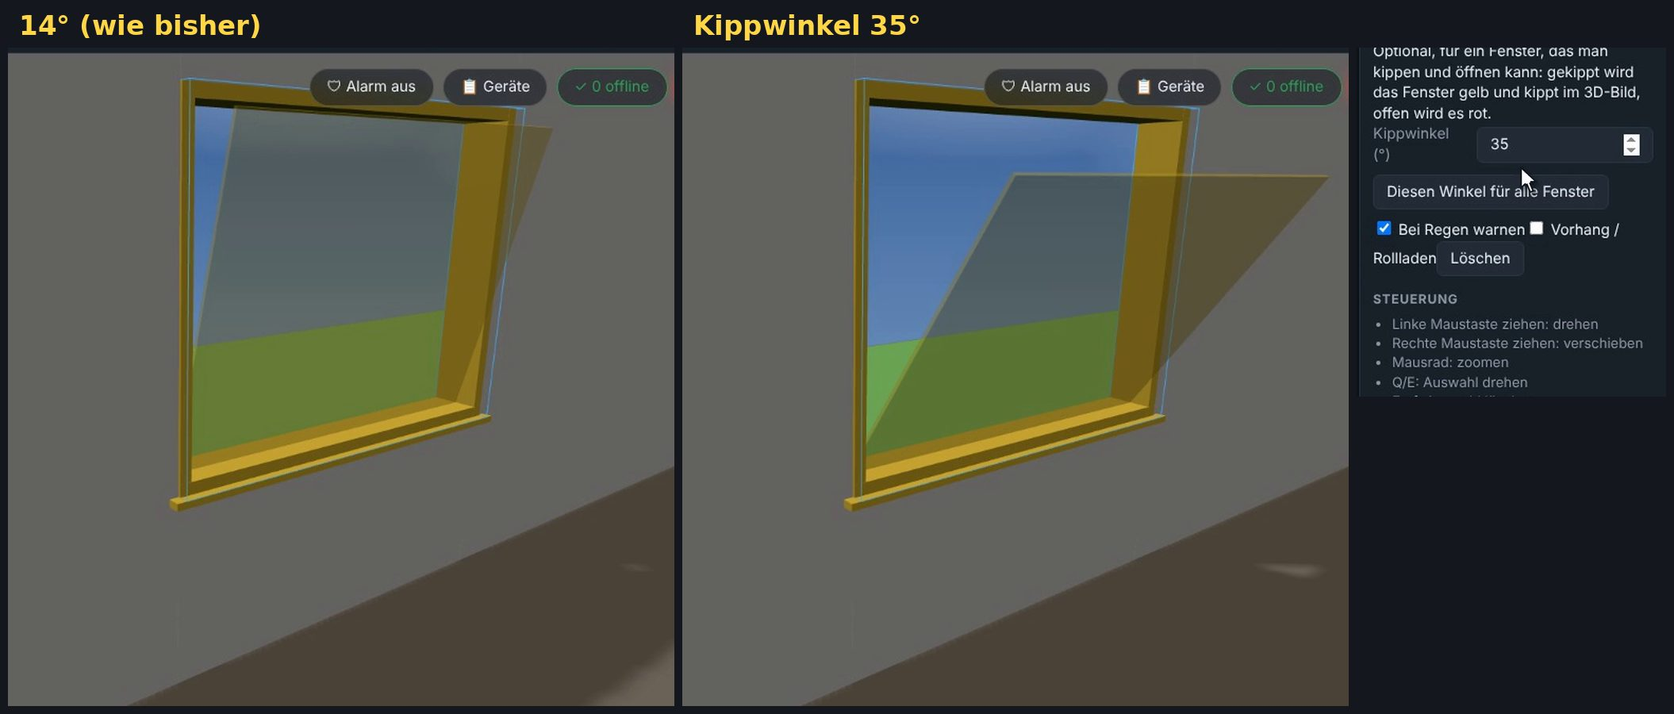
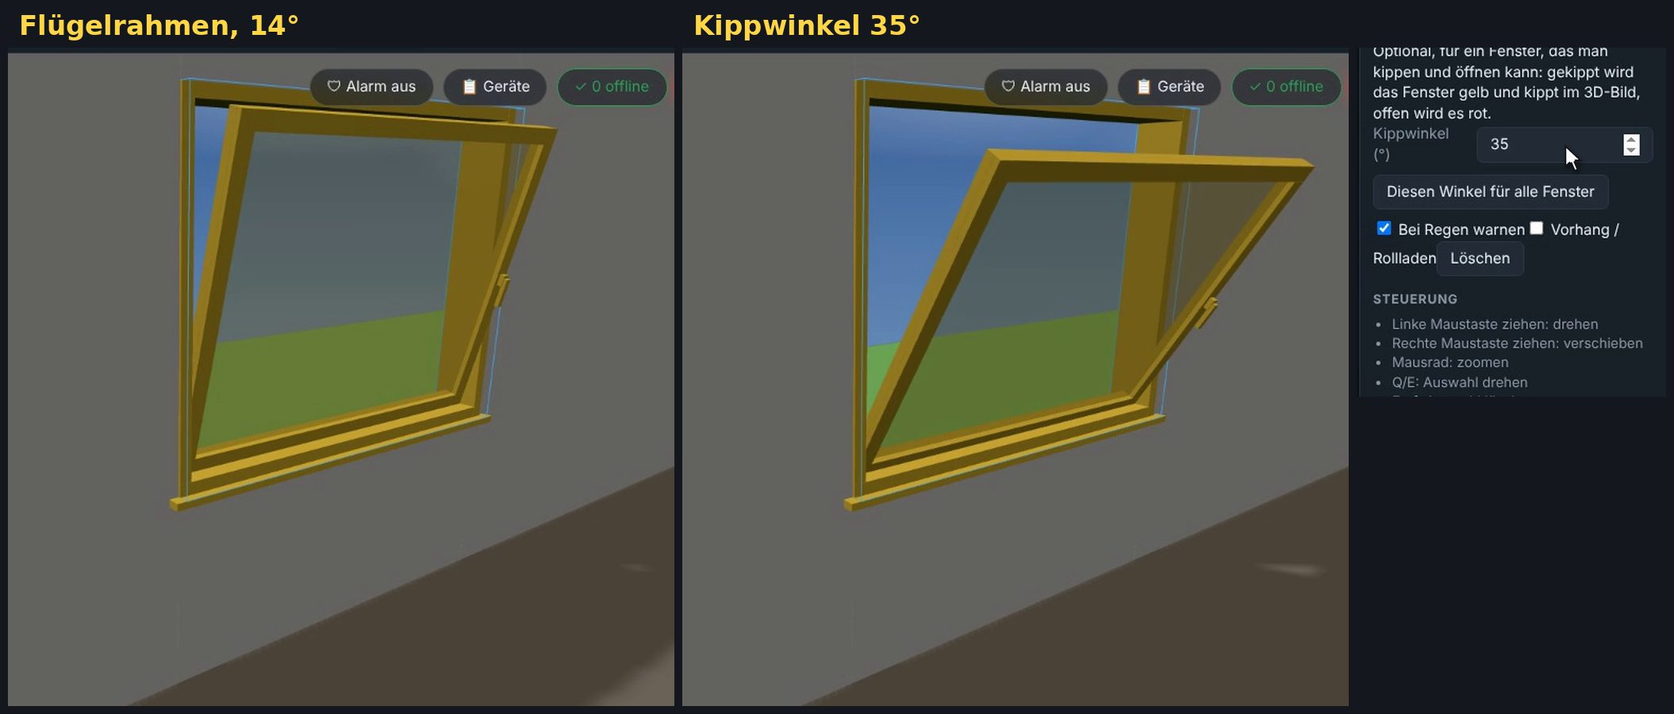
4.64.0: every pane that opens has a sash with a handle
After the example pictures (docs/ideen-4.64/) the owner chose "Ja, mit
Griff": a pane was only its glass, so a tilted window was hard to see. Now a
sash runs round the glass of every pane that opens, in the frame's colour
(green shut, yellow tilted, red open), with a handle on the room side across
from the hinge. It hangs in the pane's pivot, so it tilts and swings with it.
Fixed glazing has none. One mesh per pane without a shadow of its own.

- sash.js (new, pure): the bars and the handle; unit test, CI step
- walls.js builds it, __fp.sashes(id) for the browser test (69_window_tilt)
- video window-tilt mentions it, timeline picture redone, changelog,
  test protocol, handover, module plan

Claude-Session: https://claude.ai/code/session_018pwcmxVVTnezr3eQr4cvDx

diff --git a/floorplan3d/rootfs/app/static/walls.js b/floorplan3d/rootfs/app/static/walls.js
@@ -4,6 +4,7 @@ import { hasShutter, curtainStyle, curtainSide, shutterSlats, curtainDepth, curt
 import { mergeParts } from './meshmerge.js';
 import { windowPanes, paneHinge } from './windowpanes.js';
 import { tiltAngle } from './windowtilt.js';
+import { sashParts } from './sash.js';
 
 /* Wall geometry with real openings (doors/windows).
  * Wall data: { id, a:[x,z], b:[x,z], thickness, height, openings:[{id,type,pos,width,height,sill}] }
@@ -129,6 +130,7 @@ function buildOpening(o, t, mats0, low, shutterMat, side = 1, curtainMat = null)
   const fd = t + 0.02, ft = 0.05;                        // frame depth / thickness
   const x0 = cx - w / 2, x1 = cx + w / 2;
   let pivot = null;
+  const sashes = [];                                     // the sashes of the panes (sash.js): no shadow of their own
   const st = o.style || (o.type === 'door' ? 'single' : 'double');   // windows saved before styles existed had one centre bar
   if (o.type === 'door' && st === 'gap') return g;       // bare opening in the wall: no frame, no leaf (still tappable via the group)
   g.add(boxMesh(x0, x0 + ft, s, s + h, fd, mats.frame));
@@ -202,26 +204,41 @@ function buildOpening(o, t, mats0, low, shutterMat, side = 1, curtainMat = null)
   } else {
     if (o.sill > 0) g.add(boxMesh(x0, x1, s, s + ft, fd, mats.frame));
     const shade = curtainStyle(o), panes = windowPanes(o), inner = h - 2 * ft;
+    /** the sash of a pane that opens (sash.js): its bars and handle as one mesh in the frame's material, so it is tinted with the frame */
+    const sash = (x0, x1, y0, y1, hingeAt) => {
+      const parts = sashParts({ x0, x1, y0, y1, hingeAt, room: -side });
+      if (!parts.length) return null;
+      const boxes = parts.map((q) => new THREE.BoxGeometry(q.w, q.h, q.d).translate(q.x, q.y, q.z));
+      const m = new THREE.Mesh(mergeGeometries(boxes), mats.frame);
+      m.userData.sash = true;
+      boxes.forEach((b) => b.dispose());
+      sashes.push(m);
+      return m;
+    };
     // window pane(s) swing inwards when open (fixed glazing does not open), each around the edge chosen for it in the properties
     // (paneHinge); multi-pane windows get one pivot per pane so every pane can follow its own sensor
     const mkPane = (u0, u1, i) => {
       const pv = new THREE.Group(), pw = u1 - u0, hinge = paneHinge(o, i);
       const flip = o.openOutward ? -1 : 1;                 // the pane opens inward by default, outward on request
-      let pane, dir = flip * -side, axis = 'x', max = 0.4;
+      let pane, dir = flip * -side, axis = 'x', max = 0.4, glass;
       if (hinge === 'left' || hinge === 'right') {
         const atU1 = hinge === 'left' ? side > 0 : side < 0;   // the hinge on the left seen from inside the room
         pv.position.set(atU1 ? u1 : u0, s + ft, 0);
         pane = atU1 ? boxMesh(-pw, 0, 0, inner, 0.015, mats.glass) : boxMesh(0, pw, 0, inner, 0.015, mats.glass);
         pane.position.y = inner / 2;
         dir = flip * (atU1 ? -side : side); axis = 'y'; max = 1.15;     // whatever the side: the pane swings inward unless 开向 says outward
+        glass = atU1 ? [-pw, 0, 0, inner, 'x1'] : [0, pw, 0, inner, 'x0'];
       } else {
         const top = hinge === 'top';
         pv.position.set(0, s + ft + (top ? inner : 0), 0);
         pane = top ? boxMesh(u0, u1, -inner, 0, 0.015, mats.glass) : boxMesh(u0, u1, 0, inner, 0.015, mats.glass);
         dir = flip * (top ? side : -side);
+        glass = top ? [u0, u1, -inner, 0, 'y1'] : [u0, u1, 0, inner, 'y0'];
       }
       pv.add(pane);
       if (st !== 'fixed' && hinge !== 'fixed') {
+        const sm = sash(...glass);                         // a pane that opens has a sash with a handle: it tilts and swings with the pane
+        if (sm) pv.add(sm);
         pv.userData.dir = dir; pv.userData.axis = axis; pv.userData.max = max;
         // tilted (#624, windowtilt.js): the pane leans into the room round its bottom edge, whatever its hinge (a tilt-and-turn window)
         const tg = new THREE.Group();
@@ -256,6 +273,7 @@ function buildOpening(o, t, mats0, low, shutterMat, side = 1, curtainMat = null)
   g.userData.pivot = pivot;
   g.userData.tint = Object.entries(mats).map(([k, m]) => ({ k, m, base: m.color.getHex() }));   // k: frame, door, metal, glass (openings.js partHex)
   g.traverse((m) => { if (m.isMesh) m.castShadow = true; });
+  sashes.forEach((m) => { m.castShadow = false; });     // the thin sash needs no shadow of its own (fewer draw calls)
   mergeParts(g);                                         // the fixed parts of the frame in one mesh: fewer draw calls (meshmerge.js, #394)
   g.position.x = o.pos - 0;                              // replaced by caller (needs wall length)
   return g;

diff --git a/floorplan3d/rootfs/app/static/sash.js b/floorplan3d/rootfs/app/static/sash.js
@@ -1,0 +1,34 @@
+/* The sash of a window pane that opens (4.64.0, the owner after the example pictures: "Ja, mit Griff"; biggilottecassi in #624: the tilted
+ * window should show more): four bars round its glass and a handle on the room side, across from the hinge. It hangs in the pane's pivot,
+ * so it tilts and swings with the pane, in the colour of the window's frame (green shut, yellow tilted, red open). Before, a pane was only
+ * its glass, and a tilted pane was hard to see. Fixed glazing and a fixed pane have no sash.
+ * Pure (no three.js, no DOM; unit test: tests/sash.test.mjs); walls.js makes the boxes into one mesh per pane. */
+
+export const SASH_BAR = 0.065;                   // the width of the profile (smaller on a narrow pane)
+export const SASH_DEPTH = 0.06;                  // its depth across the wall
+
+/** the boxes of the sash of a pane whose glass is x0..x1 × y0..y1 (in the pane's own frame, z = 0 the middle of the glass).
+ *  hingeAt: the edge the pane swings round, 'x0' | 'x1' | 'y0' | 'y1'; room: +1 or −1, the side of the room along z (the handle).
+ *  Returns [{ w, h, d, x, y, z }]: size and middle of every box; [] for a pane too small to have one */
+export function sashParts({ x0, x1, y0, y1, hingeAt = 'y0', room = 1 }) {
+  const W = x1 - x0, H = y1 - y0;
+  if (!(W > 0.12 && H > 0.12)) return [];
+  const b = Math.min(SASH_BAR, W * 0.15, H * 0.15), d = SASH_DEPTH, cx = (x0 + x1) / 2, cy = (y0 + y1) / 2;
+  const parts = [
+    { w: W, h: b, d, x: cx, y: y1 - b / 2, z: 0 },               // top
+    { w: W, h: b, d, x: cx, y: y0 + b / 2, z: 0 },               // bottom
+    { w: b, h: H - 2 * b, d, x: x0 + b / 2, y: cy, z: 0 },       // left
+    { w: b, h: H - 2 * b, d, x: x1 - b / 2, y: cy, z: 0 },       // right
+  ];
+  // the handle: on the bar across from the hinge, in its middle, on the room side; its lever lies along that bar
+  const side = room < 0 ? -1 : 1, zb = side * (d / 2 + 0.012), zl = side * (d / 2 + 0.03);
+  const across = { x0: 'x1', x1: 'x0', y0: 'y1', y1: 'y0' }[hingeAt] || 'y1';
+  if (across === 'x0' || across === 'x1') {
+    const x = across === 'x0' ? x0 + b / 2 : x1 - b / 2, lever = Math.min(0.13, H * 0.2);
+    parts.push({ w: 0.03, h: 0.05, d: 0.024, x, y: cy, z: zb }, { w: 0.024, h: lever, d: 0.02, x, y: cy - lever / 2 + 0.012, z: zl });
+  } else {
+    const y = across === 'y0' ? y0 + b / 2 : y1 - b / 2, lever = Math.min(0.13, W * 0.2);
+    parts.push({ w: 0.05, h: 0.03, d: 0.024, x: cx, y, z: zb }, { w: lever, h: 0.024, d: 0.02, x: cx + lever / 2 - 0.012, y, z: zl });
+  }
+  return parts;
+}

diff --git a/docs/ideen-4.64/mockup.js b/docs/ideen-4.64/mockup.js
@@ -1,0 +1,31 @@
+// Mockup only (not in the add-on): a sash frame round every pane that opens, in the window's frame colour, and a handle on the room side.
+// It hangs in the pane's pivot, so it tilts and swings with the pane.
+window.__sash = (handle = true) => {
+  const fp = window.__fp;
+  fp.scene.traverse((g) => {
+    if (g.userData?.kind !== 'opening' || !g.userData.panePivots) return;
+    const frameMat = (g.userData.tint || []).find((x) => x.k === 'frame')?.m;
+    const metalMat = (g.userData.tint || []).find((x) => x.k === 'metal')?.m || frameMat;
+    if (!frameMat) return;
+    const tilts = g.userData.tiltPivots || [];
+    g.userData.panePivots.forEach((pv, i) => {
+      if (!pv || pv.userData.sash || pv.userData.dir == null) return;
+      const glass = pv.children.find((c) => c.isMesh && c.geometry?.parameters?.width);
+      if (!glass) return;
+      const { width: W, height: H } = glass.geometry.parameters, c = glass.position;
+      const b = 0.065, d = 0.07;                           // the profile of the sash: 6.5 cm wide, 7 cm deep
+      const Box = glass.geometry.constructor, Mesh = glass.constructor;
+      const add = (w, h, dd, x, y, z, mat) => { const m = new Mesh(new Box(w, h, dd), mat); m.position.set(c.x + x, c.y + y, c.z + z); m.castShadow = true; pv.add(m); return m; };
+      add(W, b, d, 0, H / 2 - b / 2, 0, frameMat); add(W, b, d, 0, -H / 2 + b / 2, 0, frameMat);
+      add(b, H - 2 * b, d, -W / 2 + b / 2, 0, 0, frameMat); add(b, H - 2 * b, d, W / 2 - b / 2, 0, 0, frameMat);
+      if (handle) {
+        const room = Math.sign(tilts[i]?.userData?.dir || 1);           // the side the pane tilts to is the room
+        const side = pv.userData.axis === 'y' ? Math.sign(c.x || 1) : 0; // a side-hinged pane: the handle on the far side
+        const hx = side ? side * (W / 2 - b / 2) : 0, hy = side ? 0 : H / 2 - b / 2;
+        add(0.03, 0.05, 0.03, hx, hy, room * (d / 2 + 0.015), metalMat);
+        add(0.025, 0.13, 0.02, hx, hy - 0.06, room * (d / 2 + 0.035), metalMat);
+      }
+      pv.userData.sash = true;
+    });
+  });
+};

diff --git a/floorplan3d/rootfs/app/static/app.js b/floorplan3d/rootfs/app/static/app.js
@@ -1901,6 +1901,7 @@ if (params.get('debug')) {
     switchHouse,
     paneTargets: (id) => (registry.get(id)?.userData.panePivots || []).map((p) => p.userData?.target ?? 0),   // a fixed pane has no target: 0
     tiltTargets: (id) => (registry.get(id)?.userData.tiltPivots || []).map((p) => p?.userData?.target ?? 0),   // a tilted pane (#624), its angle
+    sashes: (id) => (registry.get(id)?.userData.panePivots || []).map((p) => p.children.some((c) => c.userData?.sash)),   // a pane with a sash (sash.js)
     openLook: (id) => registry.get(id)?.userData.look ?? null,                                                 // 'open', 'tilted', 'closed' …
     shutterScale: (id) => { const sh = registry.get(id)?.userData.shutter; const p = Array.isArray(sh) ? sh[0] : sh; return p?.userData.target ?? null; },   // how far a window's cover closes (#331)
     liveOk: () => liveChan.ok(),

diff --git a/docs/ideen-4.64/make_pictures.py b/docs/ideen-4.64/make_pictures.py
@@ -1,0 +1,63 @@
+"""The example pictures of docs/ideen-4.64/: a sash frame with a handle round the panes, before it was built (mockup.js paints it into the
+demo for the photo). Build the demo first (cd demo && node build.mjs), then: python3 docs/ideen-4.64/make_pictures.py /tmp/bilder
+(the two pictures here were put together from those shots, with their labels, by hand)."""
+import sys
+from pathlib import Path
+ROOT = Path(__file__).resolve().parents[2]
+sys.path.insert(0, str(ROOT / "tools" / "guide"))
+from playwright.sync_api import sync_playwright
+import clips_edit as CE
+
+OUT = Path(sys.argv[1]); OUT.mkdir(parents=True, exist_ok=True)
+HERE = Path(__file__).parent
+DEMO = (ROOT / "demo" / "floorplan3d-demo.html").resolve().as_uri()
+ARGS = ["--use-gl=swiftshader", "--enable-unsafe-swiftshader", "--ignore-gpu-blocklist"]
+SASH = (HERE / "mockup.js").read_text()
+
+
+class R:                                   # what the preps of the guide need from the recorder
+    def __init__(self, pg): self.pg, self.lang, self.prompt = pg, "de", None
+    def box(self, sel): return self.pg.locator(sel).bounding_box()
+
+
+HOLD = """clearInterval(window.__hold); window.__hold = setInterval(() => { const f = window.__fp.fakeState;
+  f('binary_sensor.fenster_kueche', 'off'); f('binary_sensor.fenster_wz_offen', 'off'); f('binary_sensor.fenster_wz_gekippt', 'on'); f('binary_sensor.fenster_wohnzimmer', 'on'); }, 150)"""
+WINS = """(deg) => { const fp = window.__fp, f = fp.layout.floors[fp.floorIdx()], w = (%s)(f), len = Math.hypot(w.b[0] - w.a[0], w.b[1] - w.a[1]);
+  w.openings = [
+    { id: 'mz', type: 'window', style: 'single', hinge: 'left', pos: len / 2 - 1.7, width: 1.1, height: 1.35, sill: 0.85, entity: 'binary_sensor.fenster_kueche', name: 'zu' },
+    { id: 'mk', type: 'window', style: 'single', hinge: 'left', pos: len / 2, width: 1.1, height: 1.35, sill: 0.85, entity: 'binary_sensor.fenster_wz_offen', tiltEntity: 'binary_sensor.fenster_wz_gekippt', name: 'gekippt', ...(deg !== 14 ? { tiltDeg: deg } : {}) },
+    { id: 'mo', type: 'window', style: 'single', hinge: 'left', pos: len / 2 + 1.7, width: 1.1, height: 1.35, sill: 0.85, entity: 'binary_sensor.fenster_wohnzimmer', name: 'offen' }];
+  fp.rebuild(); }""" % CE.FRONT_WALL
+CAM = """([dx, h, back, tx, tz]) => { const fp = window.__fp, f = fp.layout.floors[fp.floorIdx()], w = (%s)(f);
+  const mx = (w.a[0] + w.b[0]) / 2, mz = (w.a[1] + w.b[1]) / 2; fp.camAt(mx + dx, h, mz - back, mx + tx, mz + tz); }""" % CE.FRONT_WALL
+
+with sync_playwright() as p:
+    b = p.chromium.launch(args=ARGS)
+    pg = b.new_page(viewport={"width": 1500, "height": 860}, device_scale_factor=1)
+    errs = []
+    pg.on("pageerror", lambda e: errs.append(str(e)))
+    pg.on("dialog", lambda d: d.accept("Gartenhaus") if d.type == "prompt" else (d.dismiss() if d.type == "alert" else d.accept()))
+    pg.goto(DEMO + "?mode=edit&skytime=13:00&debug=1&lang=de", wait_until="domcontentloaded", timeout=120000)
+    pg.wait_for_function("window.__fp && window.__fp.ready()", timeout=120000)
+    pg.wait_for_timeout(1500)
+    pg.evaluate(SASH)
+    CE.empty_house(walls=True, rooms=True)(R(pg))
+    pg.click("#view3d"); pg.wait_for_timeout(800)
+    print("house", pg.evaluate("window.__fp.houseId()"), pg.evaluate("window.__fp.layout.floors.length"))
+    pg.evaluate(HOLD)
+
+    def shot(name, deg=14, sash=False, cam=(-0.9, 1.7, 3.9, 0.3, 6)):
+        pg.evaluate(WINS, deg); pg.wait_for_timeout(600)
+        if sash: pg.evaluate("window.__sash()")
+        pg.evaluate(CAM, list(cam)); pg.wait_for_timeout(2500)
+        bb = pg.locator("#view").bounding_box()
+        pg.screenshot(path=str(OUT / name), type="jpeg", quality=84, clip={"x": bb["x"], "y": bb["y"] + 40, "width": bb["width"], "height": bb["height"] - 40})
+
+    shot("a-heute.jpg")
+    shot("b-rahmen.jpg", sash=True)
+    NEAR = (-2.4, 1.6, 2.0, 3.0, 2.6)
+    shot("c-heute-nah.jpg", cam=NEAR)
+    shot("d-rahmen-nah.jpg", sash=True, cam=NEAR)
+    shot("e-rahmen-nah-25.jpg", deg=25, sash=True, cam=NEAR)
+    print("errors", errs)
+    b.close()

diff --git a/tests/e2e/parts/69_window_tilt.py b/tests/e2e/parts/69_window_tilt.py
@@ -3,7 +3,8 @@ second contact, „Kontakt gekippt“. Tilted (only that one open) the window is
 says „Gekippt“; open (the contact „offen“, also with both) it is red and swings round its hinge; a handle sensor that says „tilted“ itself
 needs no second contact; fixed glazing has no such field. The add-on's window rule counts a tilted window: the heating goes off.
 4.64.0 (#624, biggilottecassi: „die Kippstellung … grafisch noch ein bisschen mehr“): the field „Kippwinkel (°)“ (5 to 45, 14 without a
-value), a shut window leans in for a moment after a change, „Für alle Fenster“, saved as tiltDeg.
+value), a shut window leans in for a moment after a change, „Für alle Fenster“, saved as tiltDeg; every pane that opens has a sash with a
+handle (sash.js), fixed glazing none.
 """
 saved_wt = api_admin("api/layout")              # put back at the end
 st_wt = api("api/settings")
@@ -58,6 +59,9 @@ pgW.evaluate("window.__fp.select('opening', 'wt_o')"); pgW.wait_for_timeout(300)
 check("tilt (#624): a window has the field „Kontakt gekippt“ with a short hint", pgW.locator("#tiltContact").count() == 1 and pgW.locator("#tiltContactHint").is_visible()
       and "gekippt" in pgW.locator("#tiltContact").inner_text())
 pgW.evaluate("window.__fp.select('opening', 'wt_f')"); pgW.wait_for_timeout(300)
+check("sash (4.64.0): a pane that opens has a sash with a handle (it tilts and swings with the pane), fixed glazing has none",
+      pgW.evaluate("window.__fp.sashes('wt_o')") == [True] and pgW.evaluate("window.__fp.sashes('wt_f')") in ([], [False]),
+      (pgW.evaluate("window.__fp.sashes('wt_o')"), pgW.evaluate("window.__fp.sashes('wt_f')")))
 check("tilt: fixed glazing has no such field (and no tilt angle)", pgW.locator("#tiltContact").count() == 0 and pgW.locator("#tiltDeg").count() == 0
       and pgW.locator("#winFixed").is_checked())
 

diff --git a/tools/guide/tags.py b/tools/guide/tags.py
@@ -263,10 +263,10 @@ t("window-setup",
 t("window-tilt",
   "Fenster gekippt Kippstellung Kippfenster Dreh-Kipp-Fenster zwei Sensoren zwei Kontakte Fenstergriff Griffsensor "
   "Homematic Aqara halb offen auf Kipp gelb gekippt offen zu Kippwinkel Winkel Grad weiter kippen stärker kippen "
-  "Kippstellung deutlicher besser sehen wie weit kippt das Fenster alle Fenster",
+  "Kippstellung deutlicher besser sehen wie weit kippt das Fenster alle Fenster Flügelrahmen Fenstergriff Griff",
   "window tilted tilt position tilt window tilt and turn two sensors two contacts window handle handle sensor Homematic "
   "Aqara half open yellow tilted open closed tilt angle angle degrees tilt further tilt more see it better how far "
-  "does the window tilt all windows")
+  "does the window tilt all windows sash window frame handle")
 t("devices-place",
   "Gerät einfügen Gerät hinzufügen Lampe hinzufügen Sensor hinzufügen Thermostat platzieren Steckdose Schalter setzen "
   "Entität zuordnen verknüpfen Home Assistant verbinden Deckenlampe aufhängen",

diff --git a/tools/guide/clips_edit.py b/tools/guide/clips_edit.py
@@ -248,7 +248,8 @@ def _(r):
     r.wait(500)
     r.click("#tiltContact .entItem[data-id='binary_sensor.fenster_wz_gekippt']")
     r.wait(1200)
-    r.say("Er ist gerade auf: das Fenster ist gekippt. Es wird gelb und kippt nach innen.", "It is on right now: the window is tilted. It turns yellow and tilts in.")
+    r.say("Er ist gerade auf: das Fenster ist gekippt. Es wird gelb, der Flügel mit Rahmen und Griff kippt nach innen.",
+          "It is on right now: the window is tilted. It turns yellow, the pane with its sash and handle tilts in.")
     r.wait(1400)
     r.js("""(() => { const fp = window.__fp, f = fp.layout.floors[fp.floorIdx()], w = (%s)(f);
       const mx = (w.a[0] + w.b[0]) / 2, mz = (w.a[1] + w.b[1]) / 2;

diff --git a/docs/UEBERGABE.md b/docs/UEBERGABE.md
@@ -6,7 +6,7 @@ Stand: 2026-11-03, Version **4.64.0**. Diese Datei ist für den nächsten Chat (
 
 ## Zuletzt
 
-- **2026-11-03, 4.64.0: 🪟 Kippwinkel eines Fensters (#624, biggilottecassi, Branch `claude/kippwinkel`):** biggilottecassi: „Kann man die Kippstellung … grafisch noch ein bisschen mehr als Kippstellung anzeigen lassen?“; der Besitzer: „vielleicht, dass man einstellen kann, wie viel Grad das Fenster aufkippen soll … wenn es nicht allzu viel Arbeit ist“. Gleich gebaut: Feld „Kippwinkel (°)“ (5° bis 45°, sonst 14° wie bisher) und „Diesen Winkel für alle Fenster“; ein Fenster, das zu ist, kippt beim Ändern kurz. Video `window-tilt` zeigt es (35°). Die [Unreleased]-Videos (Strom-Rechner …) stehen jetzt unter 4.64.0. **Die Antwort an biggilottecassi hat Claude dem Besitzer zum Einfügen gegeben** (nicht gepostet).
+- **2026-11-03, 4.64.0: 🪟 Kippwinkel und Flügelrahmen mit Griff (#624, biggilottecassi, Branch `claude/kippwinkel`):** biggilottecassi: „Kann man die Kippstellung … grafisch noch ein bisschen mehr als Kippstellung anzeigen lassen?“; der Besitzer: „vielleicht, dass man einstellen kann, wie viel Grad das Fenster aufkippen soll … wenn es nicht allzu viel Arbeit ist“. Gleich gebaut: Feld „Kippwinkel (°)“ (5° bis 45°, sonst 14° wie bisher) und „Diesen Winkel für alle Fenster“; ein Fenster, das zu ist, kippt beim Ändern kurz. Danach Claudes Idee „Rahmen um den Flügel“ als Beispielbilder (`docs/ideen-4.64/`), seine Wahl „Ja, mit Griff“: jeder Flügel, der aufgeht, hat jetzt einen Flügelrahmen mit Griff (`sash.js`). Video `window-tilt` zeigt beides (35°). Die [Unreleased]-Videos (Strom-Rechner …) stehen jetzt unter 4.64.0. **Die Antwort an biggilottecassi hat Claude dem Besitzer zum Einfügen gegeben** (nicht gepostet).
 - **2026-11-03, nach 4.63.0 (keine Version, nur die Anleitung): 🎬 Videos zum Strom-Rechner, zu mehreren Häusern und zum Nanoleaf-Editor (Branch `claude/stoic-davinci-zy4wnz`):** Der Besitzer: „kannst du noch eine antleitung für den strom rechner machen … wie man den benutzt und auch für mehrere Häuser und der nano leave deitor fehlt glaube ich auch“. Gleich gebaut: neue Clips `energy-calc` (⚡ Rechnung), `energy-houses` (eigene Zähler je Haus, „⚖ Vergleichen“), `nanoleaf-edit`; `houses` zeigt jetzt auch „+ Neues Haus“, „Duplizieren“, „Umbenennen“ und das Nachbarhaus. Der Nanoleaf-Clip blendet die Schilder aus (`settings={"labelMode": "none"}`) und fragt die Lage der Knöpfe selbst ab (`spot`): sonst wartet Playwright hinter dem 3D-Wohnzimmer Sekunden auf ruhige Bilder.
 - **2026-11-03, 4.63.0: 🏗 Balkon mit Geländer (#646 von christinloehner, Branch `claude/inspiring-davinci-m53387`):** Der Besitzer: „kannst du dir das mal anschauen ob wir das nicht schon haben“. Claude fand den Haken „Dachterrasse“ (Geländer, Holzboden), am Hang aber mit grauem Sockel bis zum Boden; der Besitzer wählte alle vier Vorschläge („gerne so wie du gesagt hast 1-4“): Haken heißt „Balkon / Dachterrasse“, ein frei hängender Balkon (über die Etage darunter hinaus, im Erdgeschoss über den Hang) steht auf einer eigenen Platte statt Sockel, Geländer Metall/Glas/Holz, „Stützen bis zum Boden“, Video `balcony`, Browser-Test `73_balcony`. Die Demo hat einen Balkon mit Glasgeländer vor dem Gästezimmer (OG). Technik: `balcony.js` (rein), `balcony3d.js`, `balconyui.js`; Raumfelder `rail`, `posts`. **Die Antwort an christinloehner hat Claude dem Besitzer zum Einfügen gegeben** (nicht gepostet).
 - **2026-11-03, nach 4.62.0 (keine Version): 💛 Spendenknopf PayPal (Branch `claude/determined-hypatia-sa2b2n`):** Der Besitzer: „einen Spenden-Button für PayPal … so auf niedlich … dort wo man es zur Repo hinzufügen kann“, dann „Tee, weil ich trinke keinen Kaffee“; Spruch nach Vorschlägen seine Wahl „a cup of tea prevents brain overflow“. Neu `docs/img/donate.svg` (Häuschen mit Gesicht, Herz, Teetasse, bewegt sich leicht), in der README unter „Add repository“, unter „Installation“, eigener Abschnitt „💛 Support the project“, Link oben und unten; Satz in `floorplan3d/DOCS.md` (Abschnitt Support); `.github/FUNDING.yml` für den ♥-Sponsor-Knopf oben auf GitHub (zeigt sich erst, wenn er in Settings → General → Features „Sponsorships“ anhakt). Link: https://www.paypal.com/donate/?hosted_button_id=693YLE2BGE4FA. Nicht im Add-on selbst (wäre eine Version).
@@ -27,7 +27,7 @@ Stand: 2026-11-03, Version **4.64.0**. Diese Datei ist für den nächsten Chat (
 - **🪟 Dachfenster (4.62.0, #643):** 152.1 bis 152.6 ✅ (Claude im Browser-Test 72_skylights). Testen durch den Besitzer in der Demo 152.7, 152.8, im Add-on 152.9, 152.10, nach dem Merge das Video 152.11. Fragen: ob christinloehner antwortet, dass es passt (ihr Beispiel war ein Bild aus NeonPlan 3D). Technik: `skylight.js` (rein), `skylightui.js`, `roof.skylights = [{ id, side, pos, w, h, eave, window }]` auf dem Haupt- und jedem weiteren Dach (nicht Flachdach); das Fenster hängt wie ein Gaubenfenster an einer nie gespeicherten Wand in `f.dormerWalls` (`skylight: true`, `tilt`, `top`, `roof`, `dormer` = das Dachfenster), `floorbuild.js` kippt sie um die Unterkante in die Schräge (`tipIntoSlope`), Trefferbox und Kugel des Rollladens mit. Der Server liest `o.at`/`o.floor` (`roommap.roof_windows`). Nicht gebaut: Dachfenster im Flachdach (Lichtkuppel), mehrere nebeneinander als ein Element (heute einzeln), ein Schwingfenster, das sich in der Mitte dreht (heute oben angeschlagen, nach außen), Ziehen im 2D-Plan.
 - **🎬 Suche der Anleitung (nach 4.61.0):** 151.1, 151.2 ✅ (Claude). Testen durch den Besitzer nach dem Merge auf der Seite der Anleitung 151.3 bis 151.5, im Add-on 151.6, eigene Wörter 151.7. Findet jemand ein Video nicht: das Wort in `tools/guide/tags.py` (oder eine Gruppe in `SYN`) und die Suche als Zeile in `QUERIES` von `tests/test_guide_search.py`.
 - **🪜 Gewendelte Treppe (4.60.0, #623):** 149.1 bis 149.5 ✅ (Claude im Browser-Test 70_stair_winders). Testen durch den Besitzer in der Demo 149.6, 149.7, im Add-on 149.8, nach dem Merge das Video 149.9. Fragen: ob Miicki antwortet, dass es wie seine Treppe aussieht. Technik: `winders.js` (rein), `corner: 'winder'`, `winders`, `split` an der Treppe (nur L/U), `solid` an der Wandtreppe; die Keile gehen in gleichen Winkeln um die innere Ecke (L) bzw. die Mitte zwischen den Läufen (U), innen laufen sie in einem Punkt zusammen. Nicht gebaut: Wendelstufen an den Knicken der Wandtreppe (dort bleibt das Podest), „verzogene“ Stufen, die schon vor der Ecke schmaler werden, ein dritter Griff im 2D-Plan, der die Ecke verschiebt (heute das Feld „Stufen im 1. Lauf“).
-- **🪟 Kippwinkel (4.64.0, #624):** 155.1 bis 155.4 ✅ (Claude im Browser-Test 69_window_tilt). Testen durch den Besitzer in der Demo 155.5, im Add-on 155.6, nach dem Merge das Video 155.7. Fragen: ob biggilottecassi antwortet, dass es so reicht. Technik: `o.tiltDeg` (nur Fenster, nicht „Fest“; 14 wird nicht gespeichert), `windowtilt.js` `tiltDeg`/`tiltAngle`/`setTiltDeg`/`tiltAll`, Feld in `tiltui.js`, `openings.js` `preview(id)` kippt kurz. Idee, nicht gebaut: ein Fensterrahmen am Flügel (heute ist der Flügel nur Glas, darum sieht man das Kippen schwer), ein Winkel für das ganze Haus in ⚙.
+- **🪟 Kippwinkel und Flügelrahmen (4.64.0, #624):** 155.1 bis 155.5a ✅ (Claude im Browser-Test 69_window_tilt). Testen durch den Besitzer in der Demo 155.5, im Add-on 155.6, nach dem Merge das Video 155.7. Fragen: ob biggilottecassi antwortet, dass es so reicht. Technik: `o.tiltDeg` (nur Fenster, nicht „Fest“; 14 wird nicht gespeichert), `windowtilt.js` `tiltDeg`/`tiltAngle`/`setTiltDeg`/`tiltAll`, Feld in `tiltui.js`, `openings.js` `preview(id)` kippt kurz; Flügelrahmen: `sash.js` (rein) → in `walls.js` ein Teil je Flügel (`userData.sash`, Material des Rahmens, kein Schatten), `__fp.sashes(id)`. Nicht gebaut: ein Häkchen, das den Flügelrahmen ausschaltet; Türen haben keinen.
 - **🪟 Gekippt und offen (4.59.0, #624):** 148.1 bis 148.5 ✅ (Claude im Browser-Test 69_window_tilt). Testen durch den Besitzer in der Demo 148.6, im Add-on 148.7, nach dem Merge das Video 148.8. Fragen: ob gelb für gekippt passt; ob biggilottecassi antwortet, dass es mit seinen Sensoren geht (welche er hat: zwei Kontakte oder ein Griff). Technik: `o.tiltEntity` (nur Fenster, nicht „Fest“), `windowtilt.js` (rein), in `openingEntities` (zählt darum überall wie ein Kontakt), `openCount` zählt einen Flügel einmal; 3D: jeder Flügel, der aufgeht, hängt in einem Kipp-Gelenk `userData.tiltPivots` an der Unterkante (`TILT_ANGLE` 0,24); Python: `roommap.opening_entities`, `alarmnotify`, `OPEN` mit `tilted` in `heatrules.py` und `flows.py`; Import/Export `tiltEntity`. Nicht gebaut: ein eigener Kontakt gekippt je Flügel (bei mehreren Flügeln kippt er die ohne eigenen Kontakt), „gekippt“ als eigene Bedingung in Abläufen und in der Fenster-Regel (gekippt zählt wie offen; vielleicht will jemand „gekippt darf bleiben“).
 - **⛰ Gelände am Hang (4.58.0, #629):** 147.1 bis 147.4 ✅ (Claude im Browser-Test 68_terrain). Testen durch den Besitzer in der Demo: 147.5, 147.6, im Add-on 147.7, nach dem Merge das Video 147.8. Fragen: ob christinloehner antwortet (wie viel es fällt, gleichmäßig oder in Stufen, ob der Balkon im Plan des Erdgeschosses gezeichnet ist, ob der Weg Stufen hat). Technik: `terrain.js` (rein), `terrain3d.js`, `terrain2d.js`, `terrainui.js`; `layout.plot.terrain = { points: [{ id, x, z, h }], contours }`, h über dem Erdgeschoss-Boden. **Das Gelände hebt nie das Haus**: nur Rasen, Erde, Flächen und Geräte draußen (`onTerrain`: Gartentypen oder mehr als 60 cm von jeder Wand, nicht in Räumen/Blöcken, nur auf der Erdgeschoss-Etage). Nicht gebaut: siehe `docs/PLAN-4.58.md` „So gebaut“ (Außentreppe am Hang, Plateau unter 0, Nachbarhaus am Hang, JSON-Import).
 - **🚗 Mehrere Autos (4.57.0, #631):** 146.1 bis 146.3 ✅ (Claude im Browser-Test 47_car_garden). Testen durch den Besitzer in der Demo 146.4, 146.5, im Add-on 146.6, nach dem Merge das Video 146.7. Fragen: ob Zelos001 antwortet, dass es passt. Technik: `settings.cars` (Liste wie `car`, `garden.clean_cars` / `cleanCars` in `car.js`); die weiteren Autos werden nicht am Namen gesucht (sonst fände man wieder das erste), nur was gewählt ist; Karten-Schlüssel `car`, `car:2` … (die Nummer ist die Stelle in ⚙, ein Auto nur mit Namen zeigt keine Karte). Nebenbei gesehen: Browser-Test-Teil 36 nach 47 in einem Lauf: „the dishwasher is done … a 1“ schlug fehl, allein geht er (in CI läuft jeder Teil allein).

diff --git a/docs/TESTPROTOKOLL.md b/docs/TESTPROTOKOLL.md
@@ -10,7 +10,7 @@ Die **Demo** öffnen: https://burned4aim.github.io/HA-Floorplanner/ und neu lade
 
 **In der Nacht zum 2026-10-25 hat Claude fast alle offenen Punkte der Demo selbst geprüft** (Chromium als PC, Tablet und Handy) und einige im Test-Add-on (das Add-on mit einem nachgebauten Home Assistant); eingetragen als „Claude“. Die Fehler dabei sind in 4.21.2 repariert (Abschnitt 101). Übrig bleibt, was nur mit deinen echten Geräten geht:
 
-1. **Neu in 4.64.0: 🪟 Kippwinkel eines Fensters** (Abschnitt 155, gefragt von biggilottecassi in #624: „die Kippstellung … grafisch noch ein bisschen mehr“): Claude hat 155.1 bis 155.4 im Browser-Test geprüft; für dich in der Demo 155.5, im Add-on 155.6, nach dem Merge das Video 155.7.
+1. **Neu in 4.64.0: 🪟 Kippwinkel eines Fensters und Flügelrahmen mit Griff** (Abschnitt 155, gefragt von biggilottecassi in #624: „die Kippstellung … grafisch noch ein bisschen mehr“): Claude hat 155.1 bis 155.5a im Browser-Test geprüft; für dich in der Demo 155.5, im Add-on 155.6, nach dem Merge das Video 155.7.
 1. **Neu nach 4.63.0: 🎬 Videos zum Strom-Rechner, zum Strom mehrerer Häuser und zum Nanoleaf-Editor** (Abschnitt 154, dein Wunsch: „eine Anleitung für den Strom-Rechner … auch für mehrere Häuser und der Nanoleaf-Editor“): Claude hat 154.1 und 154.2 geprüft; für dich nach dem Merge auf der Seite der Anleitung 154.3 bis 154.6, im Add-on 154.7.
 1. **Neu in 4.63.0: 🏗 Balkon mit Geländer** (Abschnitt 153, gefragt von christinloehner in #646): Claude hat 153.1 bis 153.5 im Browser-Test geprüft; für dich in der Demo 153.6 bis 153.8, im Add-on 153.9, nach dem Merge das Video 153.10.
 1. **Neu in 4.62.0: 🪟 Dachfenster ohne Gaube** (Abschnitt 152, gefragt von christinloehner in #643): Claude hat 152.1 bis 152.6 im Browser-Test geprüft; für dich in der Demo 152.7 und 152.8, im Add-on 152.9 und 152.10, nach dem Merge das Video 152.11.
@@ -407,8 +407,8 @@ Diese Tabelle **rechnet sich selbst aus** den Tabellen unten aus (`python3 tools
 | 152. Neu in 4.62.0: 🪟 Dachfenster ohne Gaube | 6 | 0 | 5 | 0 | 152.7 bis 152.11 |
 | 153. Neu in 4.63.0: 🏗 Balkon mit Geländer | 5 | 0 | 5 | 0 | 153.6 bis 153.10 |
 | 154. 🎬 Video-Anleitung: Strom-Rechner, Strom mehrerer Häuser, Nanoleaf (nach 4.63.0, nur die Anleitung) | 2 | 0 | 5 | 0 | 154.3 bis 154.7 |
-| 155. Neu in 4.64.0: 🪟 Kippwinkel eines Fensters | 4 | 0 | 3 | 0 | 155.5 bis 155.7 |
-| **Zusammen** | **911** | **2** | **169** | **92** | |
+| 155. Neu in 4.64.0: 🪟 Kippwinkel eines Fensters und Flügelrahmen mit Griff | 5 | 0 | 3 | 0 | 155.5 bis 155.7 |
+| **Zusammen** | **912** | **2** | **169** | **92** | |
 <!-- AUTO-UEBERSICHT-END -->
 
 ## Ältere offene Punkte (nur im echten Betrieb prüfbar)
@@ -2378,8 +2378,8 @@ Der Besitzer am 2026-11-03: „kannst du noch eine antleitung für den strom rec
 | 154.6 | Das Video „Mehrere Häuser und das Nachbarhaus“ | Haus wechseln, „+ Neues Haus“, „Duplizieren“, „Umbenennen“, das Nachbarhaus um 30° gedreht und wieder zurück | ❓ |
 | 154.7 | Im Add-on: 🎬 Anleitung öffnen (eine gespeicherte Kopie „📥 Für ohne Internet speichern“ vorher neu speichern), „Nanoleaf“ suchen | Die Videos „Nanoleaf: die Form der Panels zeichnen“ und „Effekte: Nanoleaf, WLED und Co.“ | ❓ |
 
-## 155. Neu in 4.64.0: 🪟 Kippwinkel eines Fensters
-biggilottecassi in #624: „Kann man die Kippstellung von dem Fenster grafisch noch ein bisschen mehr als Kippstellung anzeigen lassen?“ Der Besitzer am 2026-11-03: „vielleicht, dass man einstellen kann, wie viel Grad das Fenster aufkippen soll“. Ein Fenster hat jetzt unter „Kontakt gekippt“ das Feld „Kippwinkel (°)“ (5° bis 45°, ohne Angabe 14° wie bisher) und den Knopf „Diesen Winkel für alle Fenster“.
+## 155. Neu in 4.64.0: 🪟 Kippwinkel eines Fensters und Flügelrahmen mit Griff
+biggilottecassi in #624: „Kann man die Kippstellung von dem Fenster grafisch noch ein bisschen mehr als Kippstellung anzeigen lassen?“ Der Besitzer am 2026-11-03: „vielleicht, dass man einstellen kann, wie viel Grad das Fenster aufkippen soll“. Ein Fenster hat jetzt unter „Kontakt gekippt“ das Feld „Kippwinkel (°)“ (5° bis 45°, ohne Angabe 14° wie bisher) und den Knopf „Diesen Winkel für alle Fenster“. Nach den Beispielbildern (`docs/ideen-4.64/`) der Besitzer: „Ja, mit Griff“: jeder Flügel, der aufgeht, hat einen Flügelrahmen mit Griff.
 
 | Nr. | Was tun | Erwartung | Ergebnis |
 |---|---|---|---|
@@ -2387,6 +2387,7 @@ biggilottecassi in #624: „Kann man die Kippstellung von dem Fenster grafisch n
 | 155.2 | Das Fenster ist gekippt, „Kippwinkel“ 30, dann 80 eintippen | Der Flügel kippt 30° nach innen; 80 wird zu 45 | ✅ (2026-11-03, Claude im Browser-Test 69_window_tilt) |
 | 155.3 | Bei einem Fenster, das zu ist, den Kippwinkel ändern | Es kippt kurz (gut 2 Sekunden) mit dem neuen Winkel, dann ist es wieder zu | ✅ (2026-11-03, Claude im Browser-Test 69_window_tilt) |
 | 155.4 | „Diesen Winkel für alle Fenster“, dann neu laden; zurück auf 14 | Alle Fenster des Hauses haben den Winkel, unten steht „Kippwinkel 20° für alle … Fenster übernommen“, er bleibt nach dem Speichern; 14 wird nicht gespeichert; Import und Export behalten `tiltDeg` | ✅ (2026-11-03, Claude im Browser-Test 69_window_tilt und tests/test_import.py) |
-| 155.5 | Demo: „Bearbeiten“, Erdgeschoss, im Wohnzimmer das rechte Fenster („Fenster Terrasse“, gekippt) anklicken, „Kippwinkel“ auf 35 | Das gelbe Fenster kippt deutlich weiter nach innen | ❓ |
+| 155.5a | Ein Fenster mit einem Flügel, eins mit zwei Flügeln, eine Festverglasung ansehen | Jeder Flügel hat einen Rahmen mit Griff in der Farbe des Fensterrahmens, gegenüber dem Anschlag; die Festverglasung hat keinen; gekippt kippt der Rahmen mit, offen dreht er sich mit; die Zahl der Zeichenaufrufe im Musterhaus bleibt unter 2000 | ✅ (2026-11-03, Claude im Browser-Test 69_window_tilt und 14_showcase) |
+| 155.5 | Demo: „Bearbeiten“, Erdgeschoss, im Wohnzimmer das rechte Fenster („Fenster Terrasse“, gekippt) anklicken, „Kippwinkel“ auf 35 | Das gelbe Fenster kippt mit seinem Rahmen und Griff deutlich weiter nach innen | ❓ |
 | 155.6 | Im Add-on mit deinem Kippfenster (oder biggilottecassi mit seinem): einen Winkel wählen, der dir gefällt, „Diesen Winkel für alle Fenster“ | Jedes gekippte Fenster kippt so weit wie eingestellt | ❓ |
 | 155.7 | Nach dem Update auf der Seite der Anleitung das Video „Fenster mit zwei Kontakten: gekippt und offen“ ansehen (oder „Kippwinkel“ suchen) | Nach dem gelben, gekippten Fenster: „Kippwinkel (°)“ auf 35, der Flügel kippt weiter, dann „Diesen Winkel für alle Fenster“ | ❓ |

diff --git a/docs/CHANGELOG.de.md b/docs/CHANGELOG.de.md
@@ -7,10 +7,11 @@ Die deutsche Fassung von [CHANGELOG.md](../CHANGELOG.md), für den Zeitstrahl (`
 ## [4.64.0] - 2026-11-03
 ### Neu
 - **Kippwinkel eines Fensters** (#624, noch einmal gefragt von biggilottecassi: „Kann man die Kippstellung von dem Fenster grafisch noch ein bisschen mehr als Kippstellung anzeigen lassen?“): ein Fenster, das aufgeht, hat unter „Kontakt gekippt“ das Feld **Kippwinkel (°)**: wie weit sein Flügel im 3D-Bild nach innen kippt, wenn es gekippt ist, **5° bis 45°** (ohne Angabe 14° wie bisher). Nach einer Änderung kippt das Fenster kurz, auch wenn es zu ist, damit man den Winkel beim Einstellen sieht. **„Diesen Winkel für alle Fenster“** gibt jedem Fenster des Hauses denselben Winkel (mit Rückgängig in einem Schritt zurück).
+- **Jeder Flügel, der aufgeht, hat einen Flügelrahmen mit Griff** (der Besitzer nach Beispielbildern, `docs/ideen-4.64/`: „Ja, mit Griff“): vorher war ein Flügel nur seine Glasscheibe, darum sah man ein gekipptes Fenster schlecht. Jetzt läuft um das Glas jedes Flügels, der aufgeht, ein Rahmen in der Farbe des Fensterrahmens (grün zu, gelb gekippt, rot offen), mit einem kleinen Griff auf der Raumseite gegenüber dem Anschlag (bei einem Kippfenster oben in der Mitte). Er kippt und dreht sich mit dem Flügel. Festverglasung und feste Flügel haben keinen. Ein Teil je Flügel ohne eigenen Schatten, darum kostet er beim Zeichnen wenig.
 - **JSON-Import und -Export**: `"tiltDeg"` an einem Fenster (5 bis 45; 14 wird nicht geschrieben); das Schema beschreibt es.
-- Neues Modul `tiltui.js` (das Feld und der Knopf); die Regeln (`tiltDeg`, `setTiltDeg`, `tiltAll`) stehen in `windowtilt.js` mit seinem Unit-Test. Der Teil `69_window_tilt` des Browser-Tests prüft das Feld, den Winkel im 3D-Bild, das kurze Kippen eines geschlossenen Fensters, „für alle Fenster“ und das Speichern.
+- Neue Module `tiltui.js` (das Feld und der Knopf) und `sash.js` (rein: die Leisten und der Griff eines Flügelrahmens; Unit-Test `tests/sash.test.mjs`, ein neuer CI-Schritt); die Regeln des Winkels (`tiltDeg`, `setTiltDeg`, `tiltAll`) stehen in `windowtilt.js` mit seinem Unit-Test. Der Teil `69_window_tilt` des Browser-Tests prüft das Feld, den Winkel im 3D-Bild, das kurze Kippen eines geschlossenen Fensters, „für alle Fenster“, das Speichern und den Flügelrahmen.
 ### Verbessert
-- **Video-Anleitung**: das Video „Fenster mit zwei Kontakten: gekippt und offen“ zeigt auch den Kippwinkel (35° statt 14°) und „Diesen Winkel für alle Fenster“; neue Suchwörter (*Kippwinkel*, *Fenster weiter kippen*, *tilt angle* …).
+- **Video-Anleitung**: das Video „Fenster mit zwei Kontakten: gekippt und offen“ zeigt auch den Kippwinkel (35° statt 14°) und den neuen Flügelrahmen und „Diesen Winkel für alle Fenster“; neue Suchwörter (*Kippwinkel*, *Fenster weiter kippen*, *tilt angle* …).
 - **Video-Anleitung: drei neue Videos und ein längeres** (der Besitzer, 2026-11-03: „kannst du noch eine Anleitung für den Strom-Rechner machen … wie man den benutzt und auch für mehrere Häuser und der Nanoleaf-Editor fehlt glaube ich auch“): **„⚡ Der Strom-Rechner: welcher Sensor ist was“** (Clip `energy-calc`: „Strom“ → „Rechnung“, aus dem Energie-Dashboard übernehmen, die Checkliste, wie gerechnet wird, ein oder zwei Sensoren und „Vorzeichen umdrehen“, „Vorschlagen“ für die Räume und der Rest, „Strom jetzt“), **„⚡ Strom von mehreren Häusern: eigene Zähler, vergleichen“** (Clip `energy-houses`: das zweite Haus bekommt seinen eigenen Sensor, seine Zähler und seinen Strompreis; auf „Energie“ ein Haus, „Alle zusammen“ und „⚖ Vergleichen“ mit einer Farbe, den Kosten und dem Ladestand der Batterie je Haus) und **„Nanoleaf: die Form der Panels zeichnen“** (Clip `nanoleaf-edit`: „✎ Layout bearbeiten“, die fünf Formen, einrasten, drehen, zurück, übernehmen). Das Video **„Mehrere Häuser“** heißt jetzt **„Mehrere Häuser und das Nachbarhaus“**: „+ Neues Haus“, „Duplizieren“, „Umbenennen“ und ein Nachbarhaus daneben, um 30° gedreht. Mit ihren Funktionen in der Liste „Alle Funktionen von A bis Z“ und ihren Suchwörtern (*Strom-Rechner*, *Vorzeichen falsch*, *zwei Häuser Strom vergleichen*, *Nanoleaf Form ändern* …). Nur die Anleitung ist neu, nicht das Add-on.
 
 ## [4.63.0] - 2026-11-03
